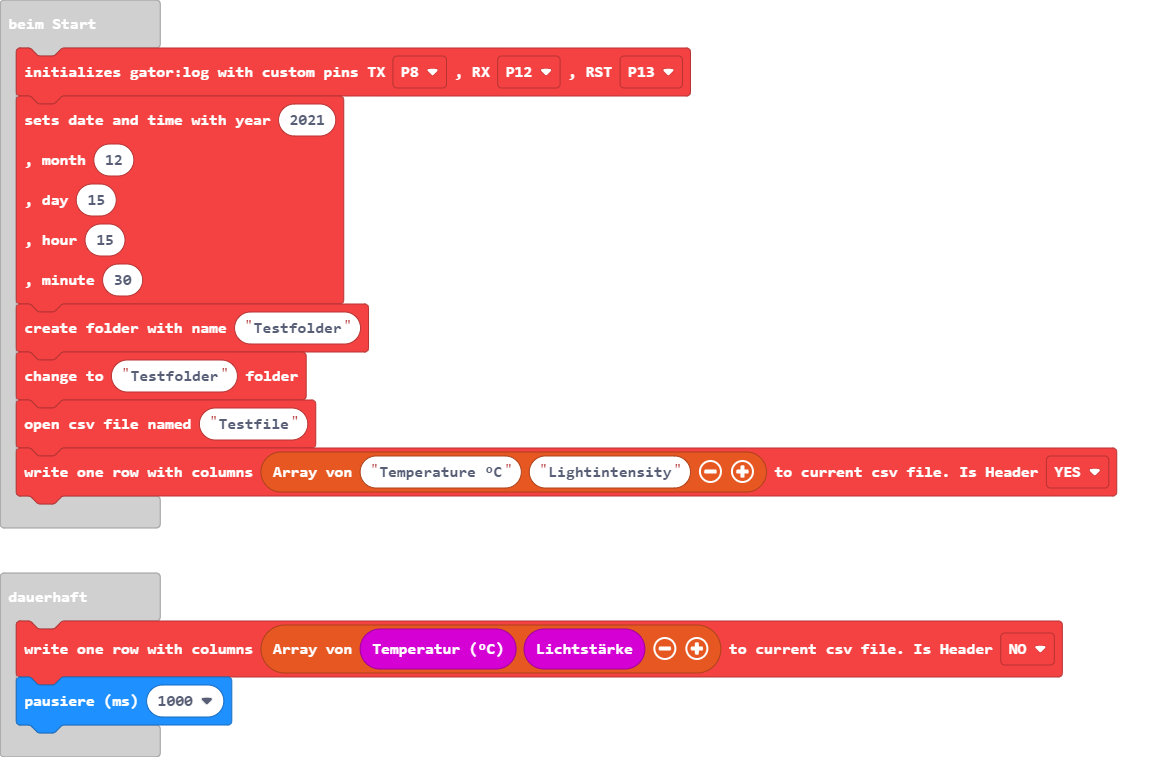
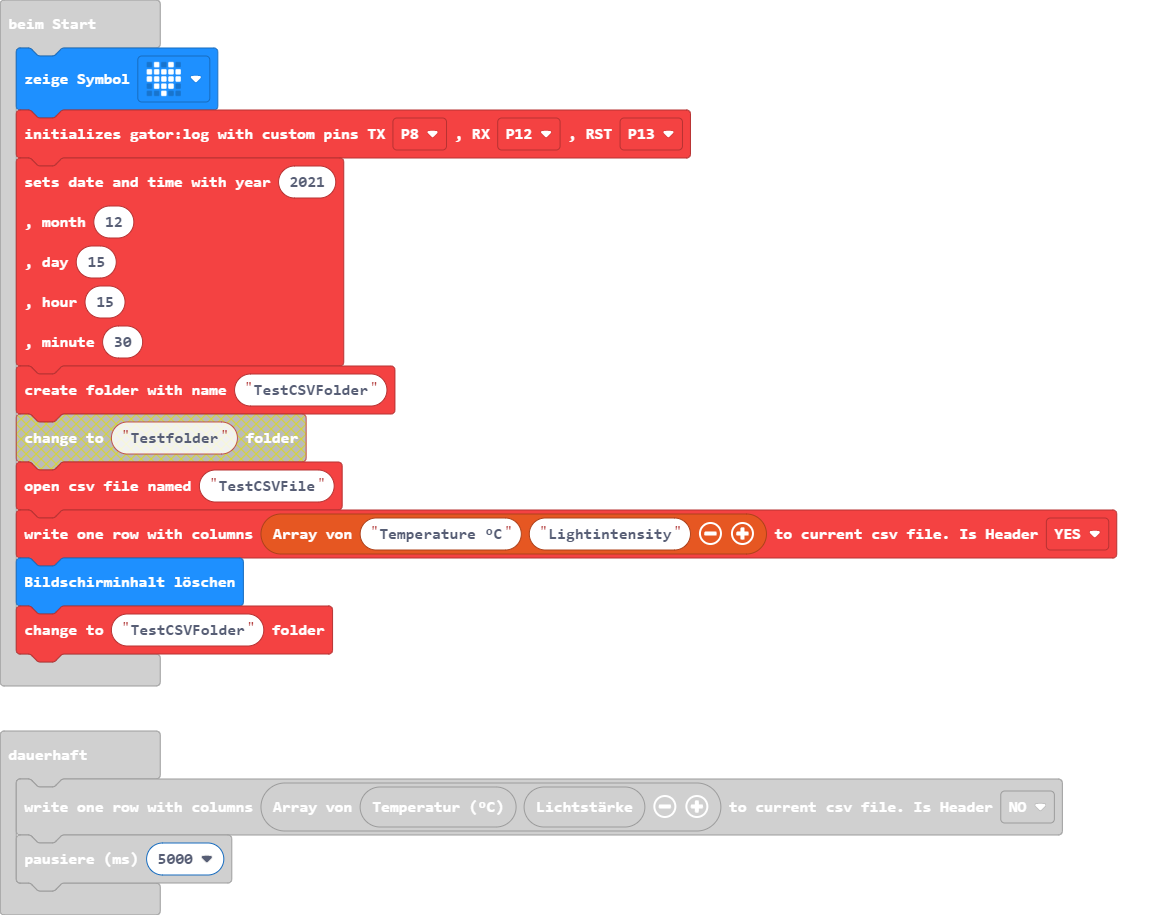
simple test

Changed region(s): [[0.0, 0.0304, 0.9547, 0.9723]]

diff --git a/main.ts b/main.ts
@@ -1,3 +1,4 @@
+basic.showIcon(IconNames.Heart)
 gatorLog.beginWithCustomPins(SerialPin.P8, SerialPin.P12, DigitalPin.P13)
 gatorLog.setDateAndTime(
 2021,
@@ -6,11 +7,12 @@ gatorLog.setDateAndTime(
 15,
 30
 )
-gatorLog.mkDirectory("Testfolder")
-gatorLog.chDirectory("Testfolder")
-gatorLog.openCSVFile("Testfile")
+gatorLog.mkDirectory("TestCSVFolder")
+gatorLog.chDirectory("TestCSVFolder")
+gatorLog.openCSVFile("TestCSVFile")
 gatorLog.writeRowWithTextToCSV(["Temperature °C", "Lightintensity"], HeaderLine.YES)
+basic.clearScreen()
 basic.forever(function () {
     gatorLog.writeRowWithNumbersToCSV([input.temperature(), input.lightLevel()], HeaderLine.NO)
-    basic.pause(1000)
+    basic.pause(5000)
 })
